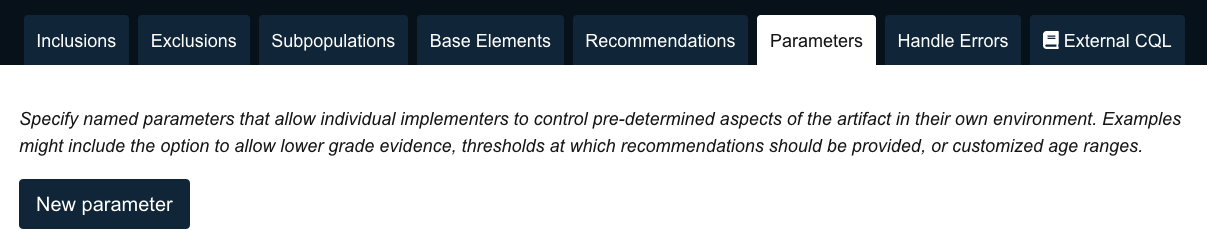
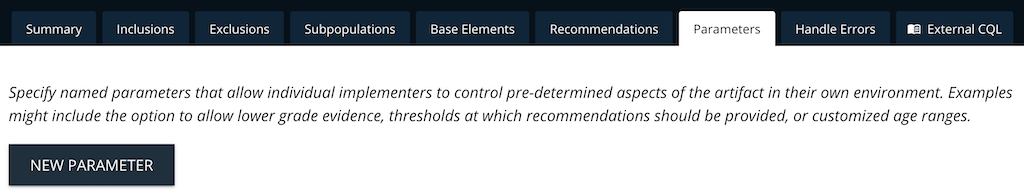
Merged in doc-update-summary (pull request #468)
Documentation Updates: Summary Tab & Tab Indicators

* Update User Guide for Summary View and Tab Indicators

Also replace old screenshot of test results.

* Update What's New to include Summary Tab

Approved-by: Noranda Brown

diff --git a/frontend/src/components/documentation/UserGuide.js b/frontend/src/components/documentation/UserGuide.js
@@ -6,7 +6,9 @@ import {
   Edit as EditIcon,
   FileCopy as CopyIcon,
   MenuBook as MenuBookIcon,
-  Visibility as VisibilityIcon
+  Visibility as VisibilityIcon,
+  CheckCircle as CheckCircleIcon,
+  Error as ErrorIcon
 } from '@material-ui/icons';
 import { FontAwesomeIcon } from '@fortawesome/react-fontawesome';
 import {
@@ -363,8 +365,10 @@ const UserGuide = () => {
               </li>
               <li>
                 <strong>Workspace Tabs</strong>: A set of tabs for organizing the different aspects of the CDS Logic:
-                Inclusions, Exclusions, Subpopulations, Base Elements, Recommendations, Parameters, Handle Errors, and
-                External CQL.
+                Summary, Inclusions, Exclusions, Subpopulations, Base Elements, Recommendations, Parameters, Handle
+                Errors, and External CQL. If a tab has a checkmark icon <CheckCircleIcon fontSize="small" />, it
+                contains user-provided content. If a tab has an exclamation icon <ErrorIcon fontSize="small" />, its
+                content contains errors.
               </li>
             </ul>
           </div>
@@ -1078,7 +1082,22 @@ const UserGuide = () => {
           </div>
 
           <div className={styles.h3Wrapper}>
-            <h3 id="Inclusions">3.5 Inclusions Tab</h3>
+            <h3 id="Summary">3.5 Summary Tab</h3>
+            <div>
+              The Summary tab provides an overview of the artifact, including its name, version, date last changed, date
+              created, and the high-level structure of the CDS logic. For the CDS logic, only the inclusions,
+              exclusions, and recommendations are displayed. Each element within the inclusions and exclusions shows its
+              type, name, and a link to the element definition in its respective authoring tab. Each recommendation
+              shows its text, associated subpopulation (if applicable), associated rationale (if applicable), and a link
+              to the recommendation definition within the Recommendations tab.
+            </div>
+            <div>
+              <img alt="" src={screenshotUrl('Summary')} className="img-fluid img-thumbnail rounded mx-auto d-block" />
+            </div>
+          </div>
+
+          <div className={styles.h3Wrapper}>
+            <h3 id="Inclusions">3.6 Inclusions Tab</h3>
             <div>
               Authors use the Inclusions tab to specify the criteria that patients should meet in order to receive a
               recommendation from the artifact. If a patient meets the criteria in the Inclusions tab and does not meet
@@ -1100,7 +1119,7 @@ const UserGuide = () => {
           </div>
 
           <div className={styles.h3Wrapper}>
-            <h3 id="Exclusions">3.6 Exclusions Tab</h3>
+            <h3 id="Exclusions">3.7 Exclusions Tab</h3>
             <div>
               Authors use the Exclusions tab to specify criteria that should disqualify patients from receiving a
               recommendation from the artifact. Even if a patient meets the criteria in the Inclusions tab, the criteria
@@ -1123,7 +1142,7 @@ const UserGuide = () => {
           </div>
 
           <div className={styles.h3Wrapper}>
-            <h3 id="Subpopulations">3.7 Subpopulations Tab</h3>
+            <h3 id="Subpopulations">3.8 Subpopulations Tab</h3>
             <div>
               Authors use the Subpopulations tab to specify criteria that groups patients into subpopulation that can be
               associated with more specific recommendations. While subpopulations are not required, they can be useful
@@ -1146,7 +1165,7 @@ const UserGuide = () => {
           </div>
 
           <div className={styles.h3Wrapper}>
-            <h3 id="Base_Elements">3.8 Base Elements Tab</h3>
+            <h3 id="Base_Elements">3.9 Base Elements Tab</h3>
             <div>
               Authors use Base Elements to create elements that can be re-used across several elements and contexts
               within the artifact. This allows for common elements to be defined once and used, as well as further
@@ -1161,7 +1180,7 @@ const UserGuide = () => {
               />
             </div>
             <div className={styles.h4Wrapper}>
-              <h4 id="Creating_Base_Elements">3.8.1 Creating Base Elements</h4>
+              <h4 id="Creating_Base_Elements">3.9.1 Creating Base Elements</h4>
               <div>
                 Authors specify Base Elements by creating and (optionally) combining elements as described in the
                 sections above. Since these elements are not in the context of specific logical constructs, they are not
@@ -1176,7 +1195,7 @@ const UserGuide = () => {
               </div>
             </div>
             <div className={styles.h4Wrapper}>
-              <h4 id="Using_Base_Elements">3.8.2 Using Base Elements</h4>
+              <h4 id="Using_Base_Elements">3.9.2 Using Base Elements</h4>
               <div>
                 Authors can reference and use Base Elements in the Inclusions tab, Exclusions tab, and Subpopulations
                 tab. To use a base element, it must be created in the Base Elements tab first. After that, use it in any
@@ -1245,7 +1264,7 @@ const UserGuide = () => {
           </div>
 
           <div className={styles.h3Wrapper}>
-            <h3 id="Recommendations">3.9 Recommendations Tab</h3>
+            <h3 id="Recommendations">3.10 Recommendations Tab</h3>
             <div>
               Recommendations are the resulting notices that should be delivered to the clinician after the CDS Artifact
               is executed. Recommendations are written as free text and can have an accompanying Rationale. For the
@@ -1262,7 +1281,7 @@ const UserGuide = () => {
             </div>
 
             <div className={styles.h4Wrapper}>
-              <h4 id="Creating_Recommendations">3.9.1 Creating Recommendations</h4>
+              <h4 id="Creating_Recommendations">3.10.1 Creating Recommendations</h4>
               <div>
                 A blank recommendation is included in the Recommendations tab by default. To create additional
                 recommendations, click the "New recommendation" button. This will add a blank recommendation below the
@@ -1284,7 +1303,7 @@ const UserGuide = () => {
             </div>
 
             <div className={styles.h4Wrapper}>
-              <h4 id="Associating_Recommendations">3.9.2 Associating Recommendations with Subpopulations</h4>
+              <h4 id="Associating_Recommendations">3.10.2 Associating Recommendations with Subpopulations</h4>
               <div>
                 For CDS artifacts that may deliver more than one recommendation, authors must associate recommendations
                 with the subpopulations to which they apply. The CDS Authoring Tool includes the following
@@ -1321,7 +1340,7 @@ const UserGuide = () => {
             </div>
 
             <div className={styles.h4Wrapper}>
-              <h4 id="Managing_Recommendations">3.9.3 Re-ordering and Deleting Recommendations</h4>
+              <h4 id="Managing_Recommendations">3.10.3 Re-ordering and Deleting Recommendations</h4>
               <div>
                 Since patients will receive the first recommendation that applies to them, the order that
                 recommendations are listed will affect how the CDS artifact behaves. In some cases, authors may need to
@@ -1346,7 +1365,7 @@ const UserGuide = () => {
           </div>
 
           <div className={styles.h3Wrapper}>
-            <h3 id="Parameters">3.10 Parameters Tab</h3>
+            <h3 id="Parameters">3.11 Parameters Tab</h3>
             <div>
               Parameters allow authors to create named elements whose values can be supplied by the CDS execution
               environment at run-time. Authors can specify default values for parameters, but are not required to do so.
@@ -1367,7 +1386,7 @@ const UserGuide = () => {
             </div>
 
             <div className={styles.h4Wrapper}>
-              <h4 id="Creating_Parameters">3.10.1 Creating Parameters</h4>
+              <h4 id="Creating_Parameters">3.11.1 Creating Parameters</h4>
               <div>
                 Authors can define as many parameters as they'd like. To create a parameter, click the "New parameter"
                 button. An empty parameter box will be displayed with fields for the parameter name, user-provided
@@ -1404,7 +1423,7 @@ const UserGuide = () => {
             </div>
 
             <div className={styles.h4Wrapper}>
-              <h4 id="Using_Parameters">3.10.2 Using Parameters</h4>
+              <h4 id="Using_Parameters">3.11.2 Using Parameters</h4>
               <div>
                 Authors can reference and use Parameters in the Inclusions tab, Exclusions tab, Subpopulations tab, and
                 Handle Errors tab. To use a parameter, it must be created in the Parameters tab first. After that, use
@@ -1444,7 +1463,7 @@ const UserGuide = () => {
             </div>
 
             <div className={styles.h4Wrapper}>
-              <h4 id="Deleting_Parameters">3.10.3 Deleting Parameters</h4>
+              <h4 id="Deleting_Parameters">3.11.3 Deleting Parameters</h4>
               <div>
                 Authors may want to delete parameters if they were entered by mistake or are no longer applicable. To do
                 this, click the "X" button in the parameter element box. This will immediately delete the parameter
@@ -1463,7 +1482,7 @@ const UserGuide = () => {
           </div>
 
           <div className={styles.h3Wrapper}>
-            <h3 id="Handle_Errors">3.11 Handle Errors Tab</h3>
+            <h3 id="Handle_Errors">3.12 Handle Errors Tab</h3>
             <div>
               Authors use the "Handle Errors" tab to define what messages should be provided to end users when certain
               error conditions arise. For example, an author might want to return an error message if required data is
@@ -1483,7 +1502,7 @@ const UserGuide = () => {
             </div>
 
             <div className={styles.h4Wrapper}>
-              <h4 id="Error_Conditions">3.11.1 Error Conditions</h4>
+              <h4 id="Error_Conditions">3.12.1 Error Conditions</h4>
               <div>
                 Authors specify error handling by chaining together conditional "If" statements, indicating that if a
                 certain condition (or set of conditions) is met, then a certain error message should be returned. By
@@ -1516,7 +1535,7 @@ const UserGuide = () => {
             </div>
 
             <div className={styles.h4Wrapper}>
-              <h4 id="Handle_Errors_If">3.11.2 If Condition Then</h4>
+              <h4 id="Handle_Errors_If">3.12.2 If Condition Then</h4>
               <div>
                 To setup the simplest error handling case, choose a condition from the dropdown menu to the right of the
                 "If" label in the "Errors" box. After you've selected the condition on which the error should be
@@ -1532,7 +1551,7 @@ const UserGuide = () => {
             </div>
 
             <div className={styles.h4Wrapper}>
-              <h4 id="Handle_Errors_And_Also_If">3.11.3 And Also If...</h4>
+              <h4 id="Handle_Errors_And_Also_If">3.12.3 And Also If...</h4>
               <div>
                 To create more complex conditional logic, click on the "And Also If..." button. This allows you to
                 specify more detailed error handling for when the top-level condition is met. Clicking the "And Also
@@ -1543,7 +1562,7 @@ const UserGuide = () => {
             </div>
 
             <div className={styles.h4Wrapper}>
-              <h4 id="Handle_Or_Else_If">3.11.4 Or Else If...</h4>
+              <h4 id="Handle_Or_Else_If">3.12.4 Or Else If...</h4>
               <div>
                 To create alternate error messages for other conditions, click on the "Or Else If..." button. This
                 allows you to choose a condition that will be evaluated only if none of the other "If" or "Else if"
@@ -1553,7 +1572,7 @@ const UserGuide = () => {
             </div>
 
             <div className={styles.h4Wrapper}>
-              <h4 id="Handle_Else">3.11.5 Else</h4>
+              <h4 id="Handle_Else">3.12.5 Else</h4>
               <div>
                 The "Else" text box allows authors to specify an error if no other error messages were generated. This
                 is rarely used at the top-level, as most CDS should not return any error if everything runs smoothly. In
@@ -1565,7 +1584,7 @@ const UserGuide = () => {
           </div>
 
           <div className={styles.h3Wrapper}>
-            <h3 id="External_CQL">3.12 External CQL Tab</h3>
+            <h3 id="External_CQL">3.13 External CQL Tab</h3>
             <div>
               Authors can use the "External CQL" tab to upload CQL files that contain logic that the author wants to use
               in the current CDS artifact. This is useful when you want to re-use existing logic rather than re-write it
@@ -1586,7 +1605,7 @@ const UserGuide = () => {
             </div>
 
             <div className={styles.h4Wrapper}>
-              <h4 id="Uploading_External_CQL">3.12.1 Uploading External CQL</h4>
+              <h4 id="Uploading_External_CQL">3.13.1 Uploading External CQL</h4>
               <div>
                 The CQL Authoring Tool allows CQL files to be uploaded individually or as a group of files contained in
                 a zip file. CQL files that are uploaded individually must not depend on any external libraries aside
@@ -1614,7 +1633,7 @@ const UserGuide = () => {
             </div>
 
             <div className={styles.h4Wrapper}>
-              <h4 id="Reviewing_External_CQL">3.12.2 Managing External CQL</h4>
+              <h4 id="Reviewing_External_CQL">3.13.2 Managing External CQL</h4>
               <div>
                 The "External CQL" tab contains a list of uploaded CQL libraries, showing the following information and
                 controls for each artifact:
@@ -1672,7 +1691,7 @@ const UserGuide = () => {
             </div>
 
             <div className={styles.h4Wrapper}>
-              <h4 id="Using_External_CQL_Elements">3.12.3 Using External CQL Elements</h4>
+              <h4 id="Using_External_CQL_Elements">3.13.3 Using External CQL Elements</h4>
               <div>
                 Authors can reference and use definitions, parameters, and functions from External CQL libraries in the
                 Inclusions tab, Exclusions tab, Subpopulations tab, and Base Elements tab. To use an External CQL
@@ -1740,7 +1759,7 @@ const UserGuide = () => {
             </div>
 
             <div className={styles.h4Wrapper}>
-              <h4 id="Using_External_CQL_Expression_Modifiers">3.12.4 Using External CQL Expression Modifiers</h4>
+              <h4 id="Using_External_CQL_Expression_Modifiers">3.13.4 Using External CQL Expression Modifiers</h4>
               <div>
                 In certain situations, authors can use functions from External CQL libraries as expression modifiers on
                 elements in an artifact. An external function can be used to modify an element in this way if all of the
@@ -2033,24 +2052,12 @@ const UserGuide = () => {
             <div>
               <img
                 alt=""
-                src={screenshotUrl('Test_Results')}
-                className="img-fluid img-thumbnail rounded mx-auto d-block"
-              />
-            </div>
-            <div>
-              To see the individual results for test patients, click the right-arrow button{' '}
-              <FontAwesomeIcon icon={faChevronDown} aria-hidden="true" /> to the right of the patient you want to view
-              results for.
-            </div>
-            <div>
-              <img
-                alt=""
                 src={screenshotUrl('Test_Results_Details')}
                 className="img-fluid img-thumbnail rounded mx-auto d-block"
               />
             </div>
             <div>
-              This lists the five most important CQL result elements for the patient:
+              This lists the five most important CQL result elements for each patient:
               <ul>
                 <li>
                   <strong>MeetsInclusionCriteria</strong>: A green checkmark{' '}

diff --git a/frontend/src/components/landing/WhatsNew/whatsNewData.js b/frontend/src/components/landing/WhatsNew/whatsNewData.js
@@ -4,6 +4,22 @@ import React from 'react';
 const whatsNewData = [
   {
     id: 1,
+    name: 'Summary Tab & More',
+    ariaLabel: 'Summary Tab & More',
+    image: `${process.env.PUBLIC_URL}/assets/images/whats-new-summary.png`,
+    description: (
+      <>
+        The new Summary tab provides an overview of the artifact, including its name, version, date last changed, date
+        created, and the high-level structure of the CDS logic (inclusions, exclusions, and recommendations). All tabs
+        now have indicator icons that show which tabs have user-provided content and which tabs contain errors. In
+        addition, tabs never scroll out of view, allowing authors to more easily maintain the context of where they are.
+      </>
+    ),
+    linkText: 'Summary Tab Documentation',
+    link: `${process.env.PUBLIC_URL}/documentation#Summary`
+  },
+  {
+    id: 2,
     name: 'Sort & Duplicate Artifacts',
     ariaLabel: 'Sort & Duplicate Artifacts',
     image: `${process.env.PUBLIC_URL}/assets/images/whats-new-artifacts.png`,
@@ -18,7 +34,7 @@ const whatsNewData = [
     link: `${process.env.PUBLIC_URL}/documentation#Managing_Artifacts`
   },
   {
-    id: 2,
+    id: 3,
     name: 'External CQL Functions',
     ariaLabel: 'External CQL Functions',
     image: `${process.env.PUBLIC_URL}/assets/images/whats-new-external-modifiers.png`,
@@ -33,7 +49,7 @@ const whatsNewData = [
     link: `${process.env.PUBLIC_URL}/documentation#Using_External_CQL_Expression_Modifiers`
   },
   {
-    id: 3,
+    id: 4,
     name: (
       <>
         CPG on FHIR<sup>®</sup> Support
@@ -51,18 +67,6 @@ const whatsNewData = [
     linkText: 'CPG Publishable Library',
     link: 'http://build.fhir.org/ig/HL7/cqf-recommendations/StructureDefinition-cpg-publishablelibrary.html',
     linkExternal: true
-  },
-  {
-    id: 4,
-    name: 'Common Functions',
-    ariaLabel: 'Common Functions',
-    image: `${process.env.PUBLIC_URL}/assets/images/whats-new-common-functions.png`,
-    description: (
-      <>
-        Artifact downloads no longer package separate CDS Connect Commons and CDS Connect Conversions libraries.
-        Instead, the primary CQL library will embed any required common functions in its own CQL.
-      </>
-    )
   }
 ];
 
